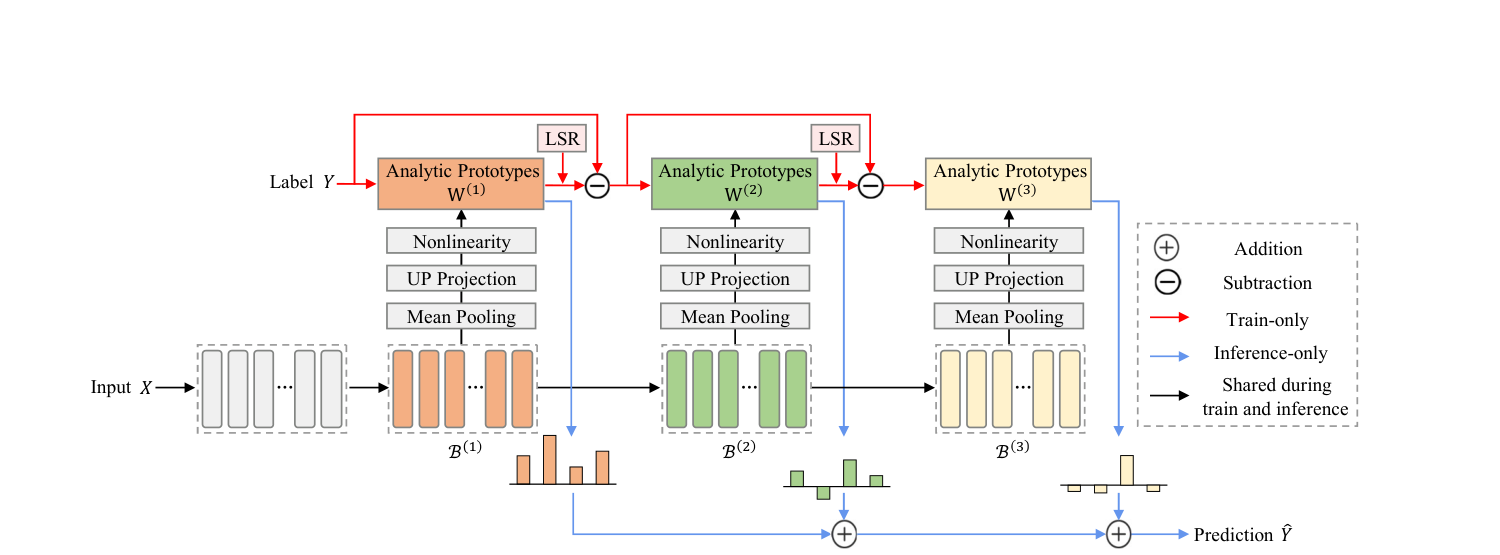
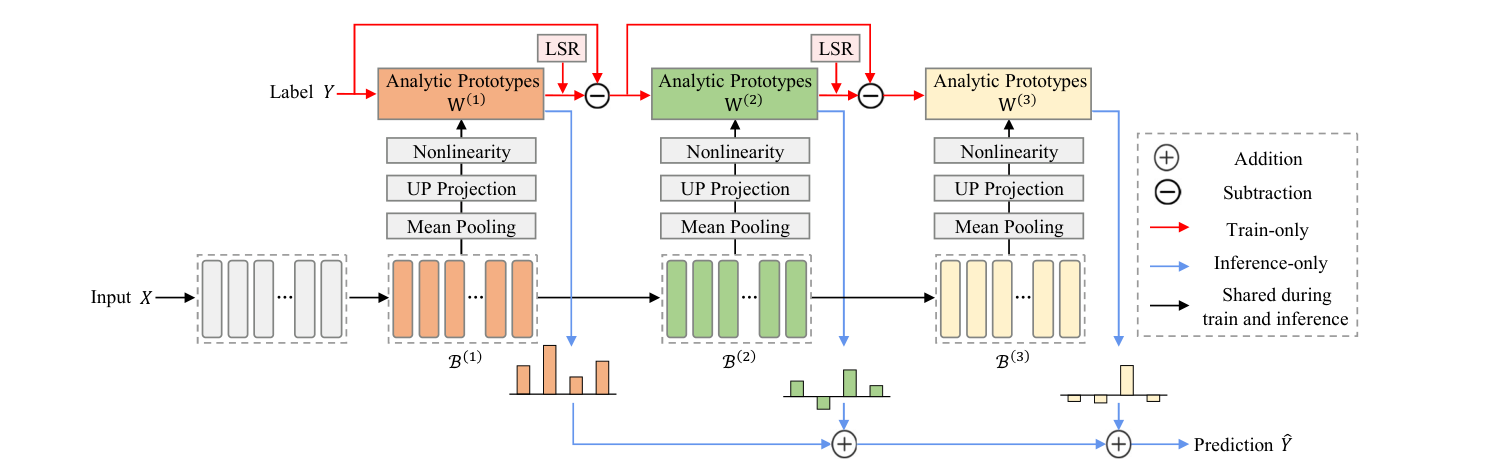
docs: refine project README

Changed region(s): [[0.0613, 0.0297, 0.92, 1.0], [0.828, 0.327, 0.8893, 0.3567]]

diff --git a/README.md b/README.md
@@ -2,27 +2,23 @@
 
 ## Introduction
 
-ReProF (**Re**sidual **Pro**totype **F**usion) is a training-free method for continual attribution of LLM-generated text. It addresses the setting in which new source LLMs arrive over time and the system must recognize all previously observed sources without retaining historical samples.
+Continual LLM attribution identifies the source model of generated text as new LLMs emerge over time. It is formulated as a class-incremental learning problem: at each stage, the system receives text from newly introduced source models, must identify every source encountered so far, and cannot retain historical training samples. Existing training-free prototype methods use a frozen feature extractor and analytic classifiers, but generally rely only on its final-layer representation. This discards complementary stylistic cues from other layers, while directly averaging or concatenating multi-layer features can mix useful signals with noise.
 
-Rather than relying only on the final layer of a frozen feature extractor, ReProF partitions its hidden layers into contiguous blocks, selects informative deep blocks, and constructs analytic prototypes for each block. The prototypes are fitted from shallow to deep: each deeper block models the residual left by preceding blocks. Their cumulative predictions combine complementary stylistic cues while preserving a rehearsal-free continual-learning pipeline.
+To address this problem, we propose ReProF (**Re**sidual **Pro**totype **F**usion), a training-free framework that exploits the hierarchy of a frozen feature extractor. ReProF partitions hidden layers into contiguous blocks, selects informative deep blocks, and constructs analytic prototypes for each block. The prototypes are fitted from shallow to deep: each deeper block models the residual left by preceding blocks. Their cumulative predictions combine complementary stylistic cues while retaining a rehearsal-free continual-learning pipeline. We evaluate ReProF on [COT-Bench](https://huggingface.co/datasets/sleep24/COT-bench/tree/main), a public benchmark for continual LLM attribution covering human-written text and 19 LLMs across eight domains. ReProF achieves a new state of the art on this benchmark, consistently outperforming existing methods across the evaluated domains.
 
 <p align="center">
   <img src="resources/reprof_overview.png" alt="Overview of ReProF" width="100%">
 </p>
 
-The implementation supports COT-Bench, which contains human-written text and text generated by 19 LLMs across eight domains: **Abstracts, Books, News, Poetry, Recipes, Reddit, Reviews,** and **Wikipedia**.
 
 ## Requirements
 
 ### 🗂 Environment
 
-Experiments were run in the LAMDA environment with one GPU. Install the Python dependencies with:
-
-```bash
-pip install -r requirements.txt
-```
-
-The pinned environment uses PyTorch 2.1.0, torchvision 0.16.0, and Transformers 4.47.1. The feature extractors are frozen throughout continual learning.
+- `torch==2.1.0`
+- `torchvision==0.16.0`
+- `transformers==4.47.1`
+- Other dependencies are listed in [`requirements.txt`](requirements.txt).
 
 ### 🤗 Pre-trained feature extractors
 
@@ -38,24 +34,24 @@ Set each local checkpoint path in `MODEL_REGISTRY` in `utils/inc_net.py`. For to
 
 ## 🔎 Dataset
 
-We use [COT-Bench](https://huggingface.co/datasets/sleep24/COT-bench/tree/main), the benchmark for continual origin tracing of LLM-generated text. It can also be downloaded from [Google Drive](https://drive.google.com/drive/folders/195dNDYPBV_dTzelu_foxhDhbVPy6VH-U?usp=drive_link).
+[COT-Bench](https://huggingface.co/datasets/sleep24/COT-bench/tree/main) is a benchmark for continual LLM attribution. It covers eight domains—Abstracts, Books, News, Poetry, Recipes, Reddit, Reviews, and Wikipedia—and provides human-written text together with outputs from 19 LLMs released by 12 vendors.
 
-After downloading, place the domain folders under `data/COT-Bench/`:
+The source LLMs are:
 
-```text
-data/
-└── COT-Bench/
-    ├── abstracts/{train,dev,test}.jsonl
-    ├── books/{train,dev,test}.jsonl
-    ├── news/{train,dev,test}.jsonl
-    ├── poetry/{train,dev,test}.jsonl
-    ├── recipes/{train,dev,test}.jsonl
-    ├── reddit/{train,dev,test}.jsonl
-    ├── reviews/{train,dev,test}.jsonl
-    └── wikipedia/{train,dev,test}.jsonl
-```
+- **OpenAI:** GPT-2, GPT-3, ChatGPT, GPT-4, GPT-4o
+- **Cohere:** Cohere, Cohere-Chat
+- **MPT:** MPT, MPT-Chat
+- **LLaMA:** LLaMA-Chat
+- **Mistral:** Mistral, Mistral-Chat
+- **Gemini:** Gemini-Pro
+- **GLM:** GLM-4-Plus
+- **Spark:** Spark-Max
+- **ERNIE:** ERNIE-4.0-Turbo
+- **Doubao:** Doubao-Pro
+- **Qwen:** Qwen-Plus
+- **DeepSeek:** Deepseek-Chat
 
-The dataset is not distributed with this repository. Before running, update the `dataset` and `device` fields in the chosen JSON file under `exps/` for your local data path and GPU ID.
+Download COT-Bench from [Hugging Face](https://huggingface.co/datasets/sleep24/COT-bench/tree/main) or [Google Drive](https://drive.google.com/drive/folders/195dNDYPBV_dTzelu_foxhDhbVPy6VH-U?usp=drive_link), then place the `COT-Bench` directory under `./data/`.
 
 ## 🔑 Running scripts
 
@@ -67,41 +63,6 @@ python main.py --config exps/ReProf.json
 
 For example, to run ReProF on the Abstracts domain, set `dataset` in `exps/ReProf.json` to your local `data/COT-Bench/abstracts` directory, then use the command above.
 
-Other reproducibility configurations are organized as follows:
-
-| Experiment | Configuration directory |
-| --- | --- |
-| Main result | `exps/ReProf.json` |
-| Ablations | `exps/ablation/` |
-| Backbone generalization | `exps/generalization/` |
-| Number of fused blocks | `exps/fused_blocks/` |
-| Projection dimension | `exps/projection_dimension/` |
-| Incremental-stage robustness | `exps/robustness/` |
-| Random-seed stability | `exps/seed_stability/` |
-| Similarity metrics | `exps/similarity_metrics/` |
-| Efficiency | `exps/efficiency/` |
-
-Run logs are written to:
-
-```text
-logs/{method}/{feature_extractor}/{domain}/{init_cls}-{increment}_{seed}.log
-```
-
-Reproduced experiment logs are archived in `results/`.
-
 ## 👨🏫 Acknowledgment
 
-This codebase is built upon [LAMDA-PILOT](https://github.com/LAMDA-CL/LAMDA-PILOT) and the continual origin tracing codebase from [GLPD](https://github.com/lhr01/continual-origin-tracing). We thank their authors for releasing these resources.
-
-## Citation
-
-If you find this repository useful, please cite:
-
-```bibtex
-@inproceedings{wang2026reprof,
-  title     = {ReProF: Residual Prototype Fusion for Continual LLM Attribution},
-  author    = {Wang, Yujie and Mao, Zhendong and Wang, Quan},
-  booktitle = {Proceedings of the 2026 Conference on Empirical Methods in Natural Language Processing},
-  year      = {2026}
-}
-```
+This codebase is built upon [LAMDA-PILOT](https://github.com/LAMDA-CL/LAMDA-PILOT) and the continual LLM attribution codebase from [GLPD](https://github.com/lhr01/continual-origin-tracing). We thank their authors for releasing these resources.
